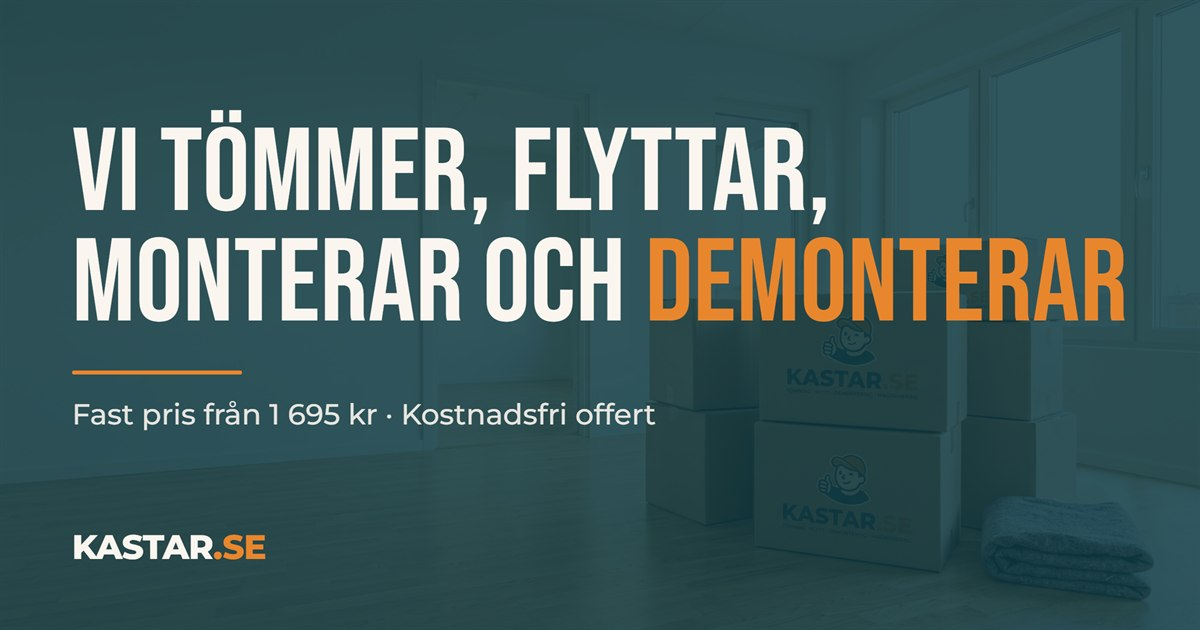
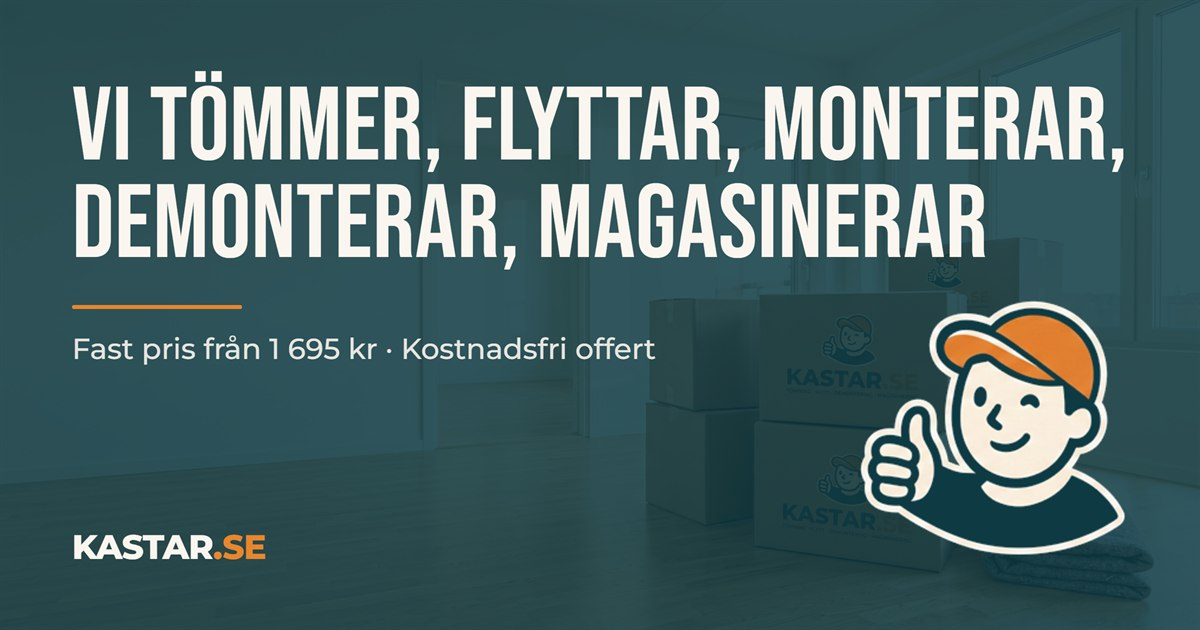
Ny hero-rubrik, omgjord delningsbild och urklippt maskot

Changed region(s): [[0.0617, 0.0905, 0.9558, 0.9048], [0.0617, 0.6333, 0.555, 0.6937]]

diff --git a/index.html b/index.html
@@ -3,8 +3,8 @@
 <head>
   <meta charset="UTF-8" />
   <meta name="viewport" content="width=device-width, initial-scale=1.0" />
-  <title>Kastar.se – Snabb och smidig tömning av bostäder och lokaler</title>
-  <meta name="description" content="Kastar.se hjälper dig tömma dödsbon, bostäder, kontor och förråd i Stockholm och Uppsala. Snabb, miljövänlig bortforsling. Kontakta oss för kostnadsfri offert." />
+  <title>Tömning, flytt och bortforsling i Stockholm och Uppsala – Kastar.se</title>
+  <meta name="description" content="Tömning, flytt, bortforsling, montering och demontering i Stockholm och Uppsala. Från en enstaka soffa till ett helt dödsbo. Fast pris och kostnadsfri offert." />
 
   <link rel="canonical" href="https://kastar.se/" />
 
@@ -169,8 +169,8 @@
       <div class="container hero-inner">
         <div class="hero-copy">
           <p class="eyebrow">Tömning &amp; bortforsling i Stockholm och Uppsala</p>
-          <h1>Snabb och smidig tömning av bostäder och lokaler</h1>
-          <p class="lead">Vi hjälper dig att enkelt tömma dödsbon, kontor och förråd. Kontakta oss för kostnadsfri offert och återfå din plats!</p>
+          <h1>Tömning, flytt, bortforsling, montering, demontering <span class="nowrap">– utan krångel</span></h1>
+          <p class="lead">Från en enstaka soffa till ett helt dödsbo. Vi är på plats snabbt, håller vad vi lovar och städar efter oss.</p>
           <div class="hero-actions">
             <a href="#kontakt" class="btn btn-primary">Boka kostnadsfri offert</a>
             <a href="tel:0703433440" class="btn btn-light">Thom 070-343 34 40</a>

diff --git a/styles.css b/styles.css
@@ -164,7 +164,11 @@ a:hover { text-decoration: underline; }
    tidigare låg max-width på containern, vilket centrerade hela hero:n. */
 .hero-inner { display: block; }
 .hero-copy  { max-width: 760px; }
-.hero h1 { color: #fff; }
+/* Rubriken är en lång uppräkning – något mindre grad än sidans övriga h1 så
+   den inte tar hela hero-ytan, särskilt på mobil. */
+.hero h1 { color: #fff; font-size: clamp(1.8rem, 4.4vw, 3.2rem); }
+/* Håller ihop "– utan krångel" så raden aldrig bryts efter tankstrecket */
+.nowrap { white-space: nowrap; }
 .hero .eyebrow { color: var(--orange-badge); }
 .hero-copy .lead { color: var(--on-dark-body); font-size: 1.12rem; max-width: 46ch; }
 .lead { font-size: 1.05rem; }
